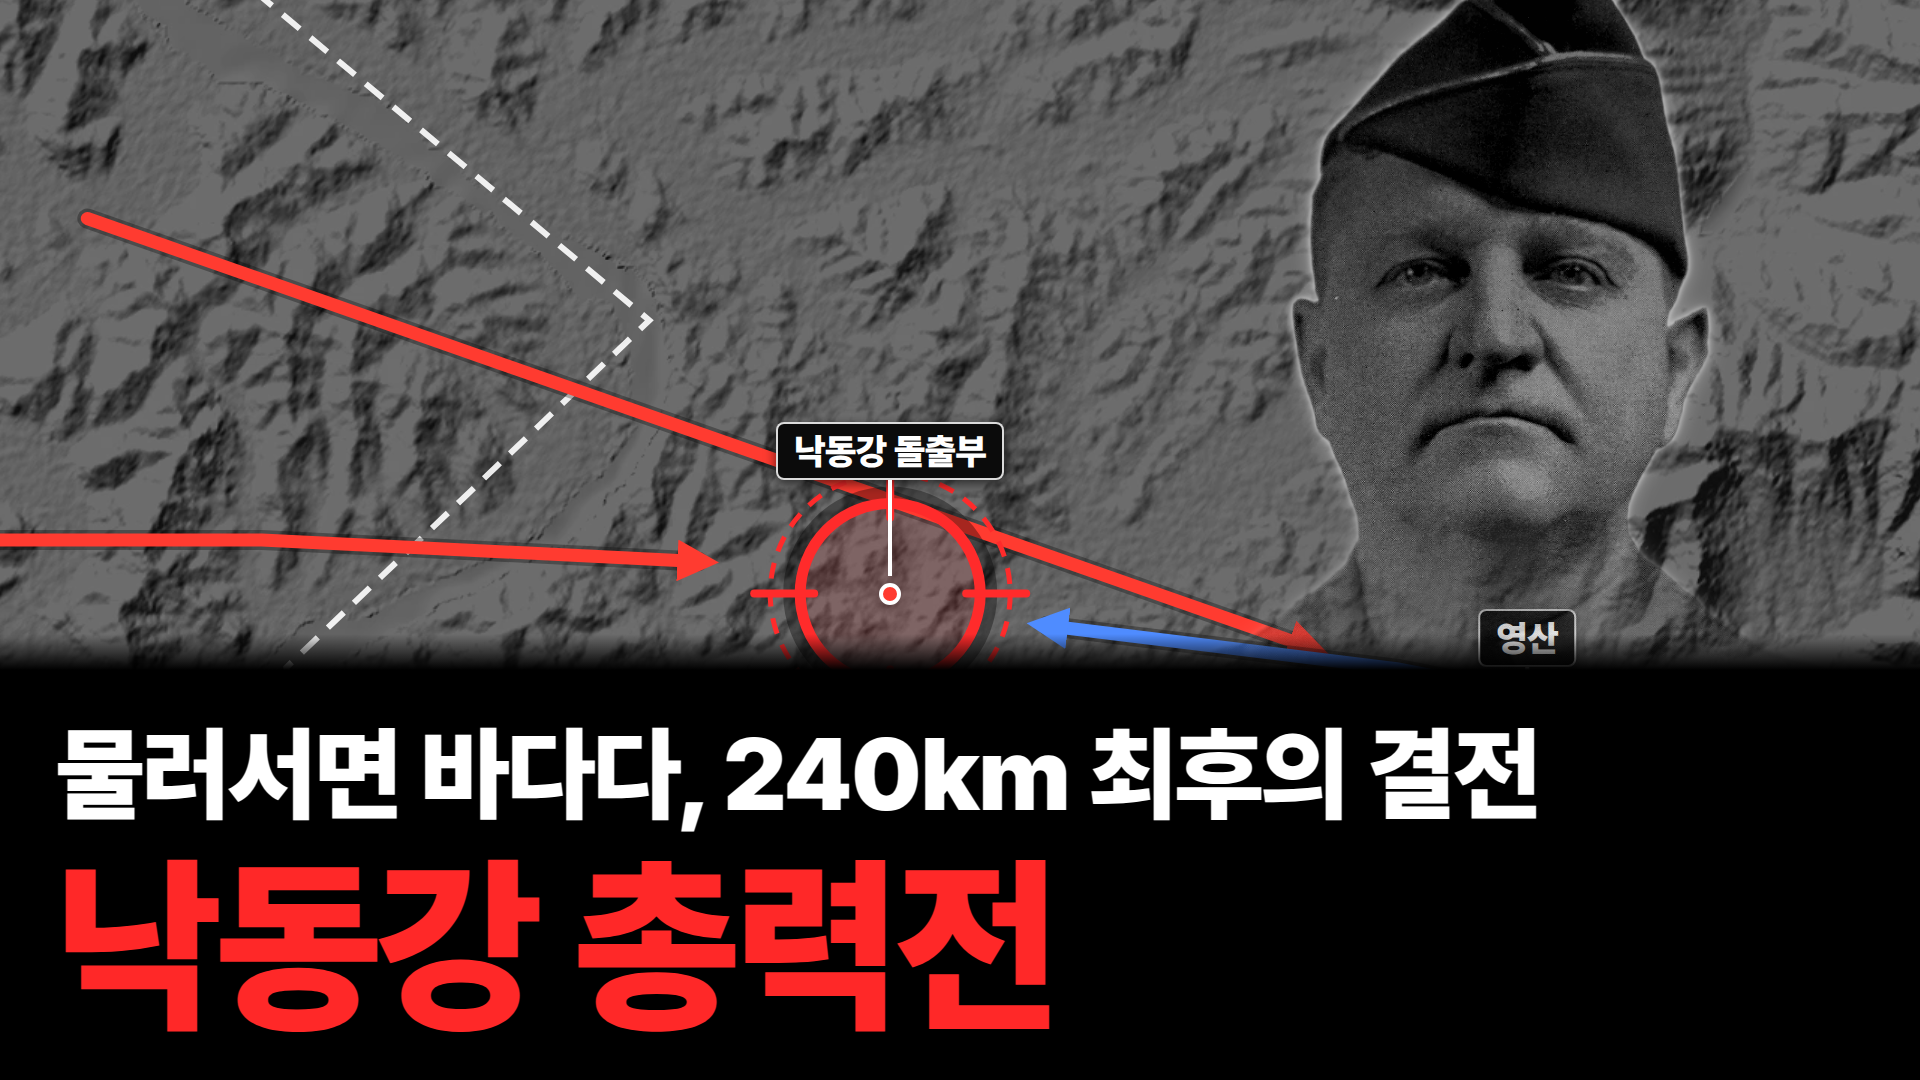
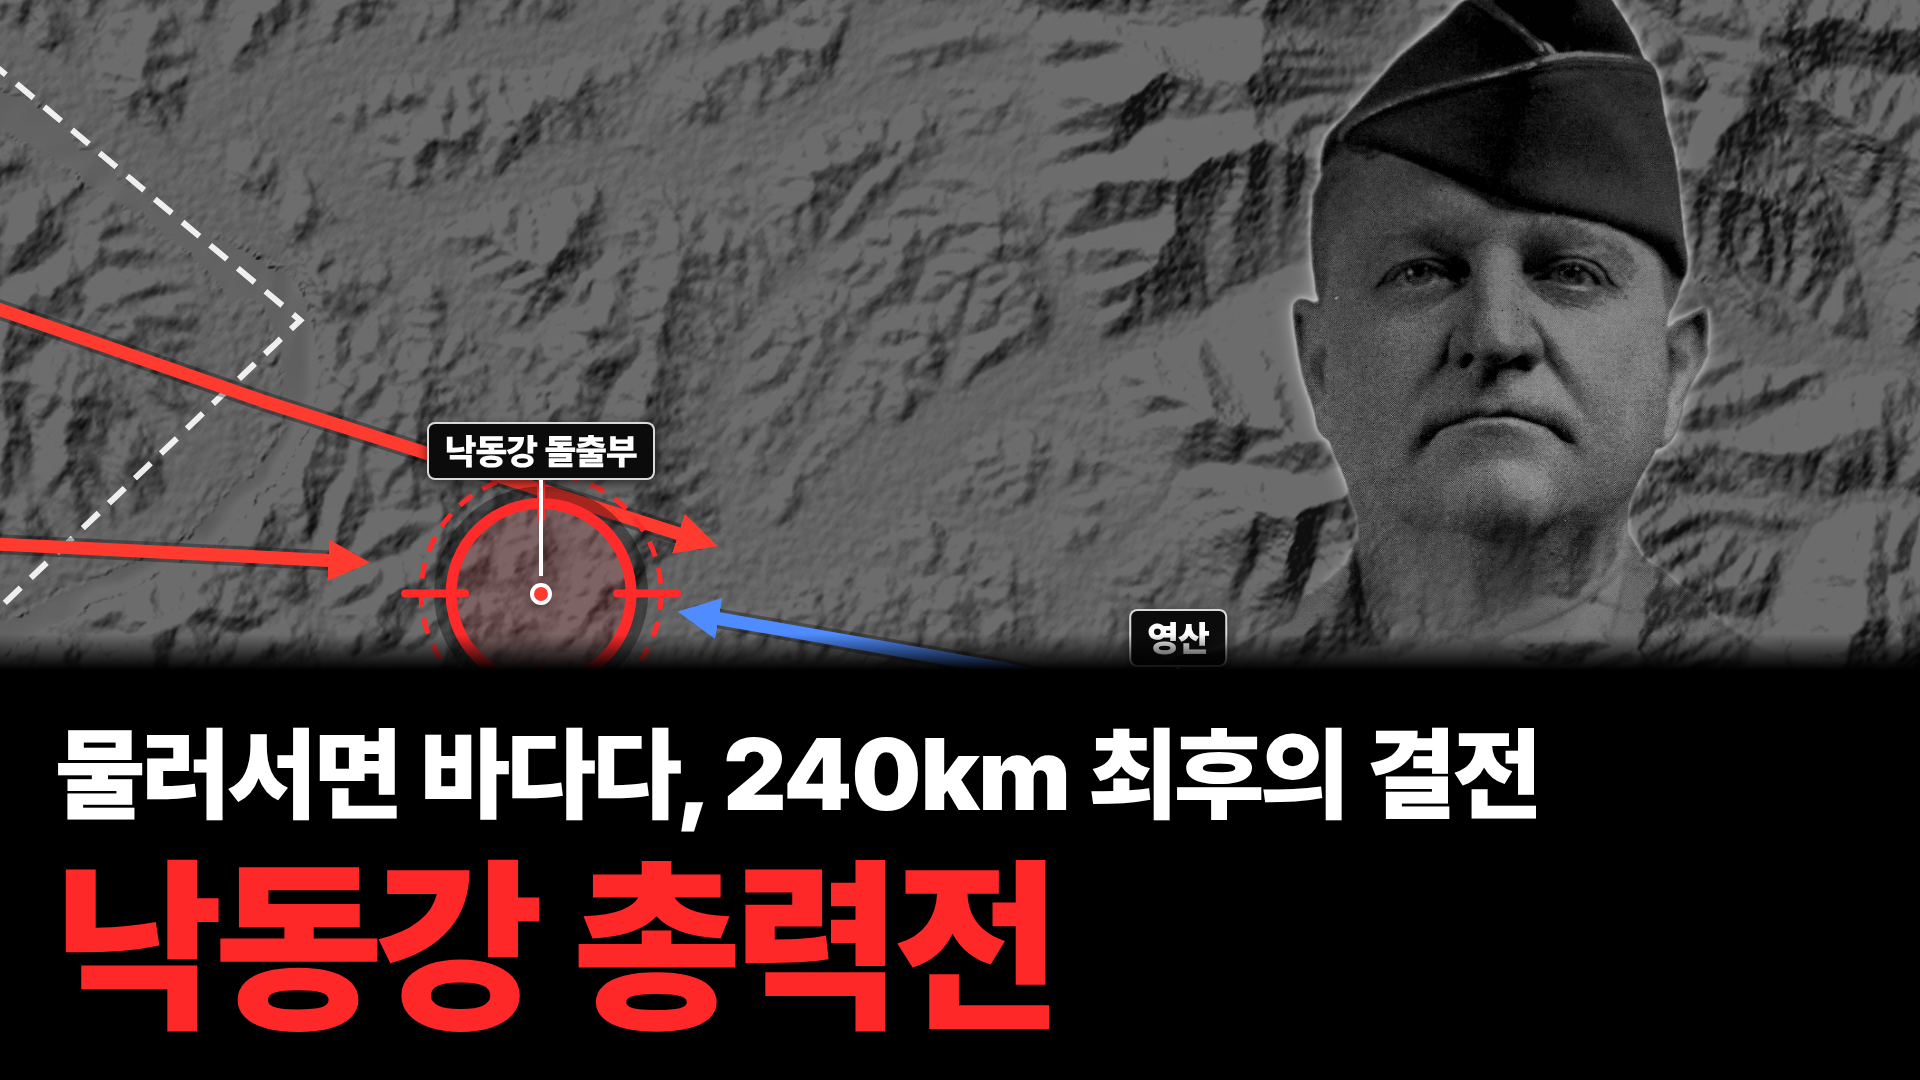
썸네일: naktong 지도 뷰 조정(영산 핀·화살표가 인물에 겹치지 않게)
Claude-Session: https://claude.ai/code/session_01SkesRSiuBMjBYJtH5nxXsi

Changed region(s): [[0.0, 0.0, 1.0, 0.6417]]

diff --git a/remotion/MapThumb.tsx b/remotion/MapThumb.tsx
@@ -187,12 +187,12 @@ export const MAPT: Record<string, MapThumbDef> = {
     floor: 0.38,
     line2Color: "#FF2828",
     textW: 0.8,
-    view: { center: [128.46, 35.47], span: 0.22 },
+    view: { center: [128.5, 35.47], span: 0.22 },
     items: [
       { k: "front", path: [[128.3561, 35.5906], [128.3506, 35.5406], [128.4244, 35.4905], [128.3828, 35.4581], [128.3887, 35.4259], [128.4411, 35.3885], [128.498, 35.3957], [128.5523, 35.3798]] },
       { k: "arrow", path: [[128.33, 35.47], [128.38, 35.47], [128.43, 35.468]], color: "red" },
-      { k: "arrow", path: [[128.36, 35.5], [128.43, 35.48], [128.5, 35.46]], color: "red" },
-      { k: "arrow", path: [[128.56, 35.45], [128.51, 35.458], [128.47, 35.462]], color: "blue" },
+      { k: "arrow", path: [[128.36, 35.5], [128.42, 35.483], [128.47, 35.47]], color: "red" },
+      { k: "arrow", path: [[128.545, 35.45], [128.505, 35.458], [128.47, 35.463]], color: "blue" },
       { k: "ring", p: [128.452, 35.465], r: 90 },
       { k: "pin", p: [128.452, 35.465], text: { ko: "낙동강 돌출부", en: "NAKTONG BULGE" }, color: "red", lift: 70 },
       { k: "pin", p: [128.525, 35.454], text: { ko: "영산", en: "YONGSAN" }, color: "blue" },
